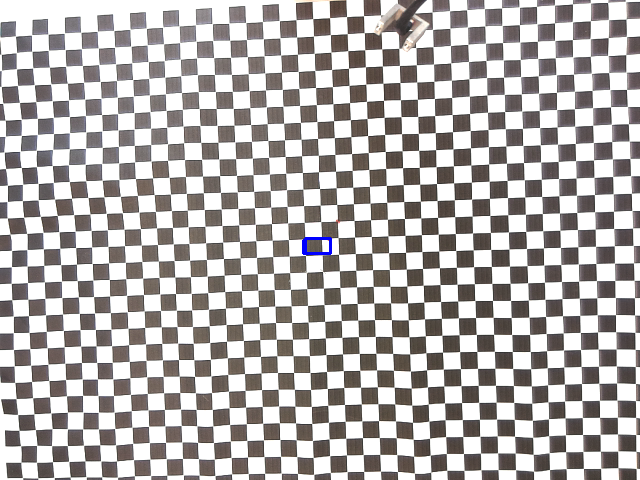
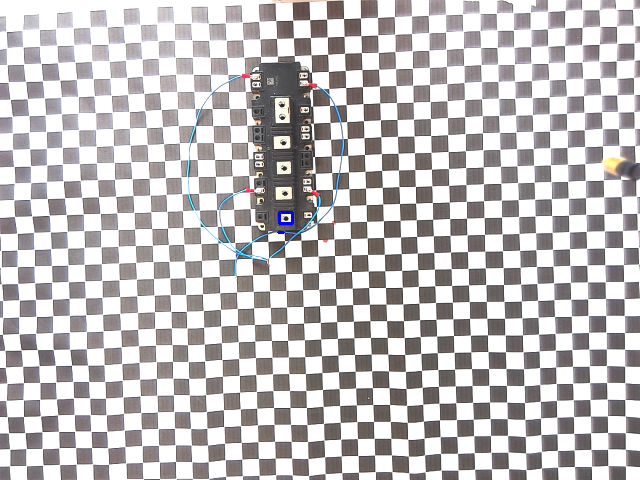
Add files via upload

diff --git a/01 - Main software/Robot_TCP_comm.py b/01 - Main software/Robot_TCP_comm.py
@@ -10,7 +10,7 @@ import sys
 import time
 from threading import Thread
 import Settings
-import Convert
+
 
 class Robot_TCP_comm(Thread):
     def __init__(self):
@@ -23,26 +23,29 @@ class Robot_TCP_comm(Thread):
         
     def run(self):
         print("Start")
-        print(Settings.Settings.img_points)
+        print(Settings.img_points)
         Settings.robot_event.wait()
         while True:
             if len(Settings.img_points) > 0:
-                print(Settings.img_points[0][0])
+                #print(Settings.img_points)
                 #print(type(Settings.Settings.img_points[0][0]))
                 print("Start")
                 #button_state = self.checkButton()
                 #button_state_decoded = button_state.decode()
                 #  print(Settings.Settings.img_points[i][0])
                 #  print(type(Settings.Settings.img_points[i][0]))
-                x_dist_pix, y_dist_pix = Convert.findDistance((Settings.img_points[0][0]), (Settings.img_points[0][1]))
-                x_mm, y_mm = Convert.convertPixeltoMM(x_dist_pix, y_dist_pix)
-                print(x_mm, y_mm)
+                #x_dist_pix, y_dist_pix = Convert.Convert.findDistance((Settings.img_points[0][0]), (Settings.img_points[0][1]))
+                #x_mm, y_mm = Convert.Convert.convertPixeltoMM(x_dist_pix, y_dist_pix)
+                print(Settings.rx_mm, Settings.ry_mm)
                 # print("Distance to point:")
                 #print(x_mm, y_mm)
-                self.moveRobot(x_mm, y_mm)
+                self.moveRobot(Settings.rx_mm, Settings.ry_mm)
                 print("Done")
                 if Settings.terminateFlag == 1:
                     break
+        print("Closing")
+        self.recv.sendall(b"takepic = 1\n")
+        time.sleep(1)
         self.close()
                 
     def open_connection(self):
@@ -99,71 +102,82 @@ class Robot_TCP_comm(Thread):
         send_y_encoded = send_y.encode('utf-8')
         #print("Moving")
         #print(x_dist_mm)
-        #print(send_y_encoded)
+        print(send_y_encoded)
+        print(send_x_encoded)
         #self.recv.sendall(b"xShift = ")
         #self.recv.sendall(np.byte(x_dist_mm))
         #self.recv.sendall(b"\n")
         self.recv.sendall(send_x_encoded)
-        time.sleep(0.1)
+        time.sleep(1)
+        print("Sent x coordinates")
         #self.recv.sendall(b"yShift = ")
         #self.recv.sendall(np.byte(y_dist_mm))
         #self.recv.sendall(b"\n")
         self.recv.sendall(send_y_encoded)
-        time.sleep(0.1)
-        #print("Found the test point")
-        for i in range(55):
+        time.sleep(2)
+        print("Sent y coordinate")
+        print("Found the test point")
+        self.recv.sendall(b"yShift = 55\n")
+        time.sleep(1)
+        '''for i in range(55):
             self.recv.sendall(b"yShift = 1\n")
-            time.sleep(0.1)
+            time.sleep(0.1)'''
         #print("Moving to probe")
         #time.sleep(0.1)
         turns = 0
-        self.recv.sendall(b"zShift = -1\n")
-        #print("Moving down")
-        time.sleep(0.1)
-        turns = turns + 1
-        #print(turns)
-        if turns == 600:
-            takePicFlag = 1
-            self.recv.sendall(b"zShift = 0\n")
-            '''while len(Settings.Settings.img_points) == 1: #This is to ensure that the thread doesn't break if the list of points isn't bigger than one point set
-                if len(Settings.Settings.img_points) > 1:
-                    break
-            x_dist_pix, y_dist_pix = self.findDistance(Settings.Settings.img_points[1][0], Settings.Settings.img_points[1][1])
-            x_mm, y_mm = self.closeupConvertPixeltoMM(x_dist_pix, y_dist_pix)
-            send_x = "xShift = " + str(x_dist_mm) + "\n"
-            send_y = "yShift = " + str(y_dist_mm) + "\n"
-            print(x_mm, y_mm)
-            send_x_encoded = send_x.encode('utf-8')
-            send_y_encoded = send_y.encode('utf-8')
-            self.recv.sendall(send_x_encoded)
+        while (Settings.distance_measured > 20 and Settings.voltages < str(1)):
+            Settings.robot_event.wait()
+            self.recv.sendall(b"zShift = -1\n")
+            #print("Moving down")
             time.sleep(0.1)
-            self.recv.sendall(send_y_encoded)
-            time.sleep(0.1)'''
-        if turns > 1400:
-            self.recv.sendall(b"zShift = 0\n")
-            time.sleep(1)
-            self.recv.sendall(b"takepic = 1\n")
-            time.sleep(1)
-            print("Robot stopeed to avoid crash!")
-            time.sleep(0.1)
-        if  (Settings.voltages > str(1)):
-            self.recv.sendall(b"zShift = 0\n")
-            #print("Robot stopped")
-            time.sleep(1)
-            self.recv.sendall(b"takepic = 1\n")
-            time.sleep(1)
-        if Settings.terminateFlag == 1:
-            self.recv.sendall(b"zShift = 0\n")
-            #print("Robot stopped")
-            time.sleep(1)
-            self.recv.sendall(b"takepic = 1\n")
-            time.sleep(1)
-        if (distance_measured < 20):
-            self.recv.sendall(b"zShift = 0\n")
-            #print("Robot stopped")
-            time.sleep(1)
-            self.recv.sendall(b"takepic = 1\n")
-            time.sleep(1)
+            turns = turns + 1
+            #print(turns)
+            if turns == 600:
+                takePicFlag = 1
+                self.recv.sendall(b"zShift = 0\n")
+                '''while len(Settings.Settings.img_points) == 1: #This is to ensure that the thread doesn't break if the list of points isn't bigger than one point set
+                    if len(Settings.Settings.img_points) > 1:
+                        break
+                x_dist_pix, y_dist_pix = self.findDistance(Settings.Settings.img_points[1][0], Settings.Settings.img_points[1][1])
+                x_mm, y_mm = self.closeupConvertPixeltoMM(x_dist_pix, y_dist_pix)
+                send_x = "xShift = " + str(x_dist_mm) + "\n"
+                send_y = "yShift = " + str(y_dist_mm) + "\n"
+                print(x_mm, y_mm)
+                send_x_encoded = send_x.encode('utf-8')
+                send_y_encoded = send_y.encode('utf-8')
+                self.recv.sendall(send_x_encoded)
+                time.sleep(0.1)
+                self.recv.sendall(send_y_encoded)
+                time.sleep(0.1)'''
+            if turns > 1400:
+                self.recv.sendall(b"zShift = 0\n")
+                time.sleep(1)
+                self.recv.sendall(b"takepic = 1\n")
+                time.sleep(1)
+                print("Robot stopeed to avoid crash!")
+                time.sleep(0.1)
+                break
+            if  (Settings.voltages > str(1)):
+                self.recv.sendall(b"zShift = 0\n")
+                #print("Robot stopped")
+                time.sleep(1)
+                self.recv.sendall(b"takepic = 1\n")
+                time.sleep(1)
+                break
+            if Settings.terminateFlag == 1:
+                self.recv.sendall(b"zShift = 0\n")
+                #print("Robot stopped")
+                time.sleep(1)
+                self.recv.sendall(b"takepic = 1\n")
+                time.sleep(1)
+                break
+            if (Settings.distance_measured < 20):
+                self.recv.sendall(b"zShift = 0\n")
+                #print("Robot stopped")
+                time.sleep(1)
+                self.recv.sendall(b"takepic = 1\n")
+                time.sleep(1)
+                break
     '''
         Returns nothing
         -------

diff --git a/01 - Main software/Arduino.py b/01 - Main software/Arduino.py
@@ -6,6 +6,8 @@ Created on Wed Sep 14 08:42:42 2022
 """
 
 from threading import Thread
+import Settings
+import serial
 
 class Arduino(Thread):
     def __init__(self, cleandata, text, voltages, button_state):
@@ -19,9 +21,6 @@ class Arduino(Thread):
         return None
     
     def run(self):
-        global text
-        global FSR_voltage
-        global distance_measured
         while True:
             self.data = self.readLines()
          #   print(self.data)
@@ -31,22 +30,22 @@ class Arduino(Thread):
           #  print("Received from Arduino")
           #  print(split)
             if len(split) > 1:
-                FSR_voltage = float(split[0].replace(',', ''))
+                Settings.FSR_voltage = float(split[0].replace(',', ''))
            #     print(FSR_voltage)
             #    print(type(FSR_voltage))
-                #print("Distance")
-                distance_measured = int(float(split[1].replace(',', '')))
-                #print(distance_measured)
+                print("Distance\n")
+                Settings.distance_measured = int(float(split[1].replace(',', '')))
+                print(Settings.distance_measured)
                # print(type(distance))
             else:
-                FSR_voltage = 0.0
-                distance_measured = 1000
+                Settings.FSR_voltage = 0.0
+                Settings.distance_measured = 1000
             #if len(split) <= 1:
             self.text = self.cleandata.strip() + "\n" + "Voltage: " + '\n' + str(self.voltages) + '\n' + "Button: " + str(self.button_state)
             
           #  print(self.text)
-            text = self.text
-            if terminateFlag == 1:
+            Settings.text = self.text
+            if Settings.terminateFlag == 1:
                 break
         self.close()
         

diff --git a/01 - Main software/Video_floodfill.py b/01 - Main software/Video_floodfill.py
@@ -45,11 +45,14 @@ class Video(Thread):
             fromCenter = False
             r = cv.selectROI("Select region of interest", img, fromCenter)
             print("Here rectangle", r)
-            #Settings.img_points = self.floodFill(img, r)
+            Settings.img_points = self.floodFill(img, r)
+            #print(r)
+            #print(Settings.img_points)
             #cv.imshow("Original image", img)
             print(img.shape)
-            Settings.img_points.append([r[0],r[1],r[2],r[3]])
-            rxp, ryp = Convert.Convert.findDistance(r[0], r[1])
+            #Settings.img_points.append([r[0],r[1],r[2],r[3]])
+            #for i in range(len(img_points)):
+            rxp, ryp = Convert.Convert.findDistance(img_points[0][0], img_points[0][1])
             Settings.rx_mm, Settings.ry_mm = Convert.Convert.convertPixeltoMM(rxp, ryp)
             print("Rectangles mm", Settings.rx_mm, Settings.ry_mm)
             ret, img_show = self.cap.read()

diff --git a/01 - Main software/Test of robot movement.py b/01 - Main software/Test of robot movement.py
@@ -1,0 +1,24 @@
+# -*- coding: utf-8 -*-
+"""
+Created on Wed Sep 14 09:52:16 2022
+
+@author: Near-field scanner
+"""
+
+import Video_test_version
+import Interface
+import Robot_TCP_comm
+import Settings
+
+camera_video = Video_test_version.Video(Settings.text)
+interface = Interface.Interface()
+robot_control = Robot_TCP_comm.Robot_TCP_comm()
+
+if __name__ == "__main__":
+    camera_video.start()
+    robot_control.start()
+    interface.start()
+    
+    camera_video.join()
+    robot_control.join()
+    interface.join()

diff --git a/01 - Main software/Test of floodfill and robot movement.py b/01 - Main software/Test of floodfill and robot movement.py
@@ -1,0 +1,24 @@
+# -*- coding: utf-8 -*-
+"""
+Created on Wed Sep 14 09:52:16 2022
+
+@author: Near-field scanner
+"""
+
+import Video_floodfill
+import Interface
+import Robot_TCP_comm
+import Settings
+
+camera_video = Video_floodfill.Video(Settings.text)
+interface = Interface.Interface()
+robot_control = Robot_TCP_comm.Robot_TCP_comm()
+
+if __name__ == "__main__":
+    camera_video.start()
+    robot_control.start()
+    interface.start()
+    
+    camera_video.join()
+    robot_control.join()
+    interface.join()

diff --git a/01 - Main software/Interface.py b/01 - Main software/Interface.py
@@ -82,12 +82,12 @@ class Interface(Thread):
         global camera_event
         Settings.robot_event.set()
         Settings.camera_event.set()
-        terminateFlag = 1
+        Settings.terminateFlag = 1
         Settings.robot_event.clear()
         Settings.camera_event.clear()
         print("Program terminated") 
     
     def button6_clicked(self):
-        robot_control.close()
+        robot_control.Robot_TCP_comm.close(robot_control.Robot_TCP_comm)
         print("Connection to robot closed") 
         

diff --git a/01 - Main software/Oscilloscope.py b/01 - Main software/Oscilloscope.py
@@ -34,8 +34,8 @@ class Oscilloscope(Thread):
         while True:
             self.voltages = self.getVoltage()
             Settings.voltages = self.voltages
-            #qprint(voltages)
-            if(voltages > str(1)):
+            print(Settings.voltages)
+            if(Settings.voltages > str(1)):
                 data = self.inst.query_ascii_values("CHAN1:WAV1:DATA?")
                 self.inst.write("SYST:DISP:UPD ON")
                 self.inst.write("HCOP:DEST 'MMEM'")

diff --git a/01 - Main software/Settings.py b/01 - Main software/Settings.py
@@ -7,9 +7,11 @@ Created on Wed Sep 14 08:27:59 2022
 
 from threading import Event
     
-distance_measured = 0
+distance_measured = 100
 img_width = 640
 img_height = 480
+autofocus = 0.32
+auto_brightness = 2
 test_points = [[0,0], [0,0], [0,0], [0,0], [0,0]]
 box_w, box_h, img_rect, circles, img_text, box_x, box_y = [0,0,0,0,0,0,0]
 voltages = str(0)
@@ -31,3 +33,4 @@ camera_distance_2 = 100.0
 sensor_width = 4.54
 sensor_height = 3.4565
 focal_length = 3.916
+rx_mm, ry_mm = [0,0]

diff --git a/01 - Main software/Convert.py b/01 - Main software/Convert.py
@@ -14,7 +14,7 @@ class Convert():
     def findDistance(x_pix, y_pix):
         #print(type(self.robot_origin_fixed[0]))
         #print(x_pix, y_pix)
-        x_dist_pix = x_pix - Settings.robot_origin_fixed[0]
+        x_dist_pix = Settings.robot_origin_fixed[0] - x_pix
         y_dist_pix = y_pix - Settings.robot_origin_fixed[1]
         #print("Distance in x: ", x_dist_pix)
         return (x_dist_pix), (y_dist_pix)

diff --git a/01 - Main software/Test of Arduino.py b/01 - Main software/Test of Arduino.py
@@ -1,0 +1,16 @@
+# -*- coding: utf-8 -*-
+"""
+Created on Wed Sep 14 12:52:08 2022
+
+@author: Near-field scanner
+"""
+
+import Arduino
+import Settings
+
+arduino_control = Arduino.Arduino(Settings.cleandata, Settings.text, Settings.voltages, Settings.button_state)
+
+if __name__ == "__main__":
+    arduino_control.start()
+    
+    arduino_control.join()

diff --git a/01 - Main software/Test of oscilloscope.py b/01 - Main software/Test of oscilloscope.py
@@ -1,0 +1,16 @@
+# -*- coding: utf-8 -*-
+"""
+Created on Wed Sep 14 12:58:47 2022
+
+@author: Near-field scanner
+"""
+
+import Oscilloscope
+import Settings
+
+oscilloscope = Oscilloscope.Oscilloscope(Settings.voltages)
+
+if __name__ == "__main__":
+    oscilloscope.start()
+    
+    oscilloscope.join()
